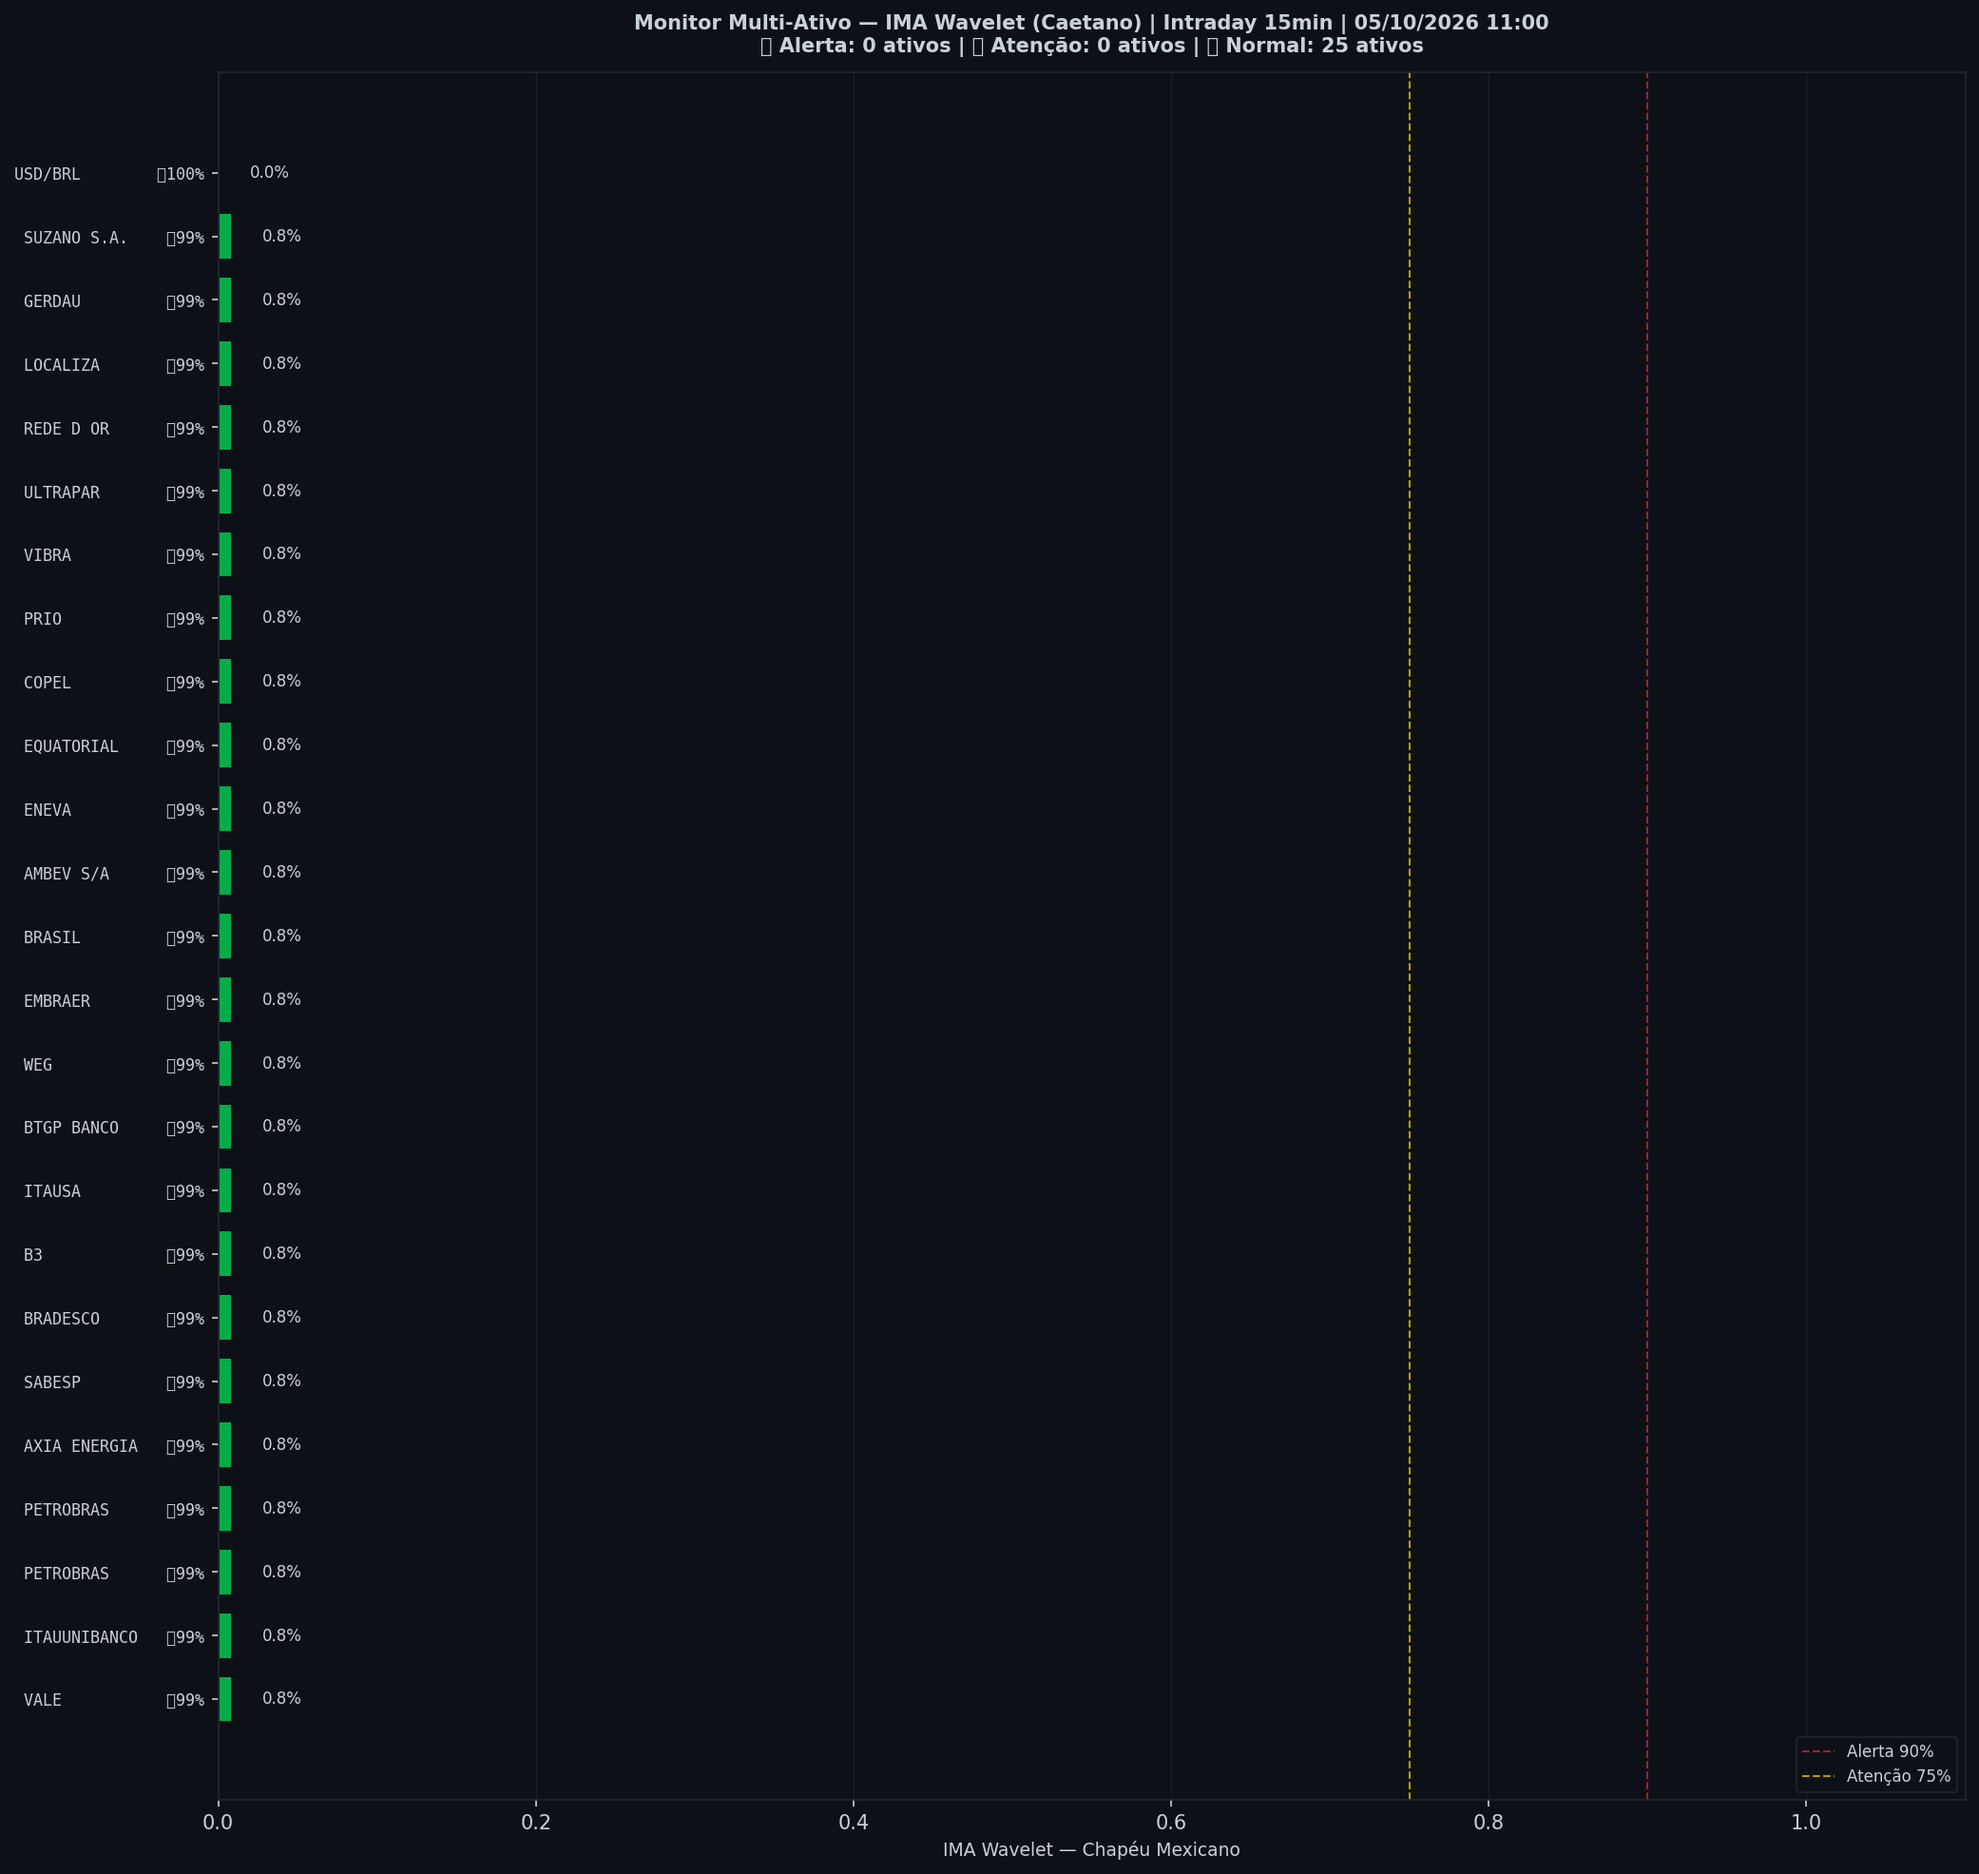
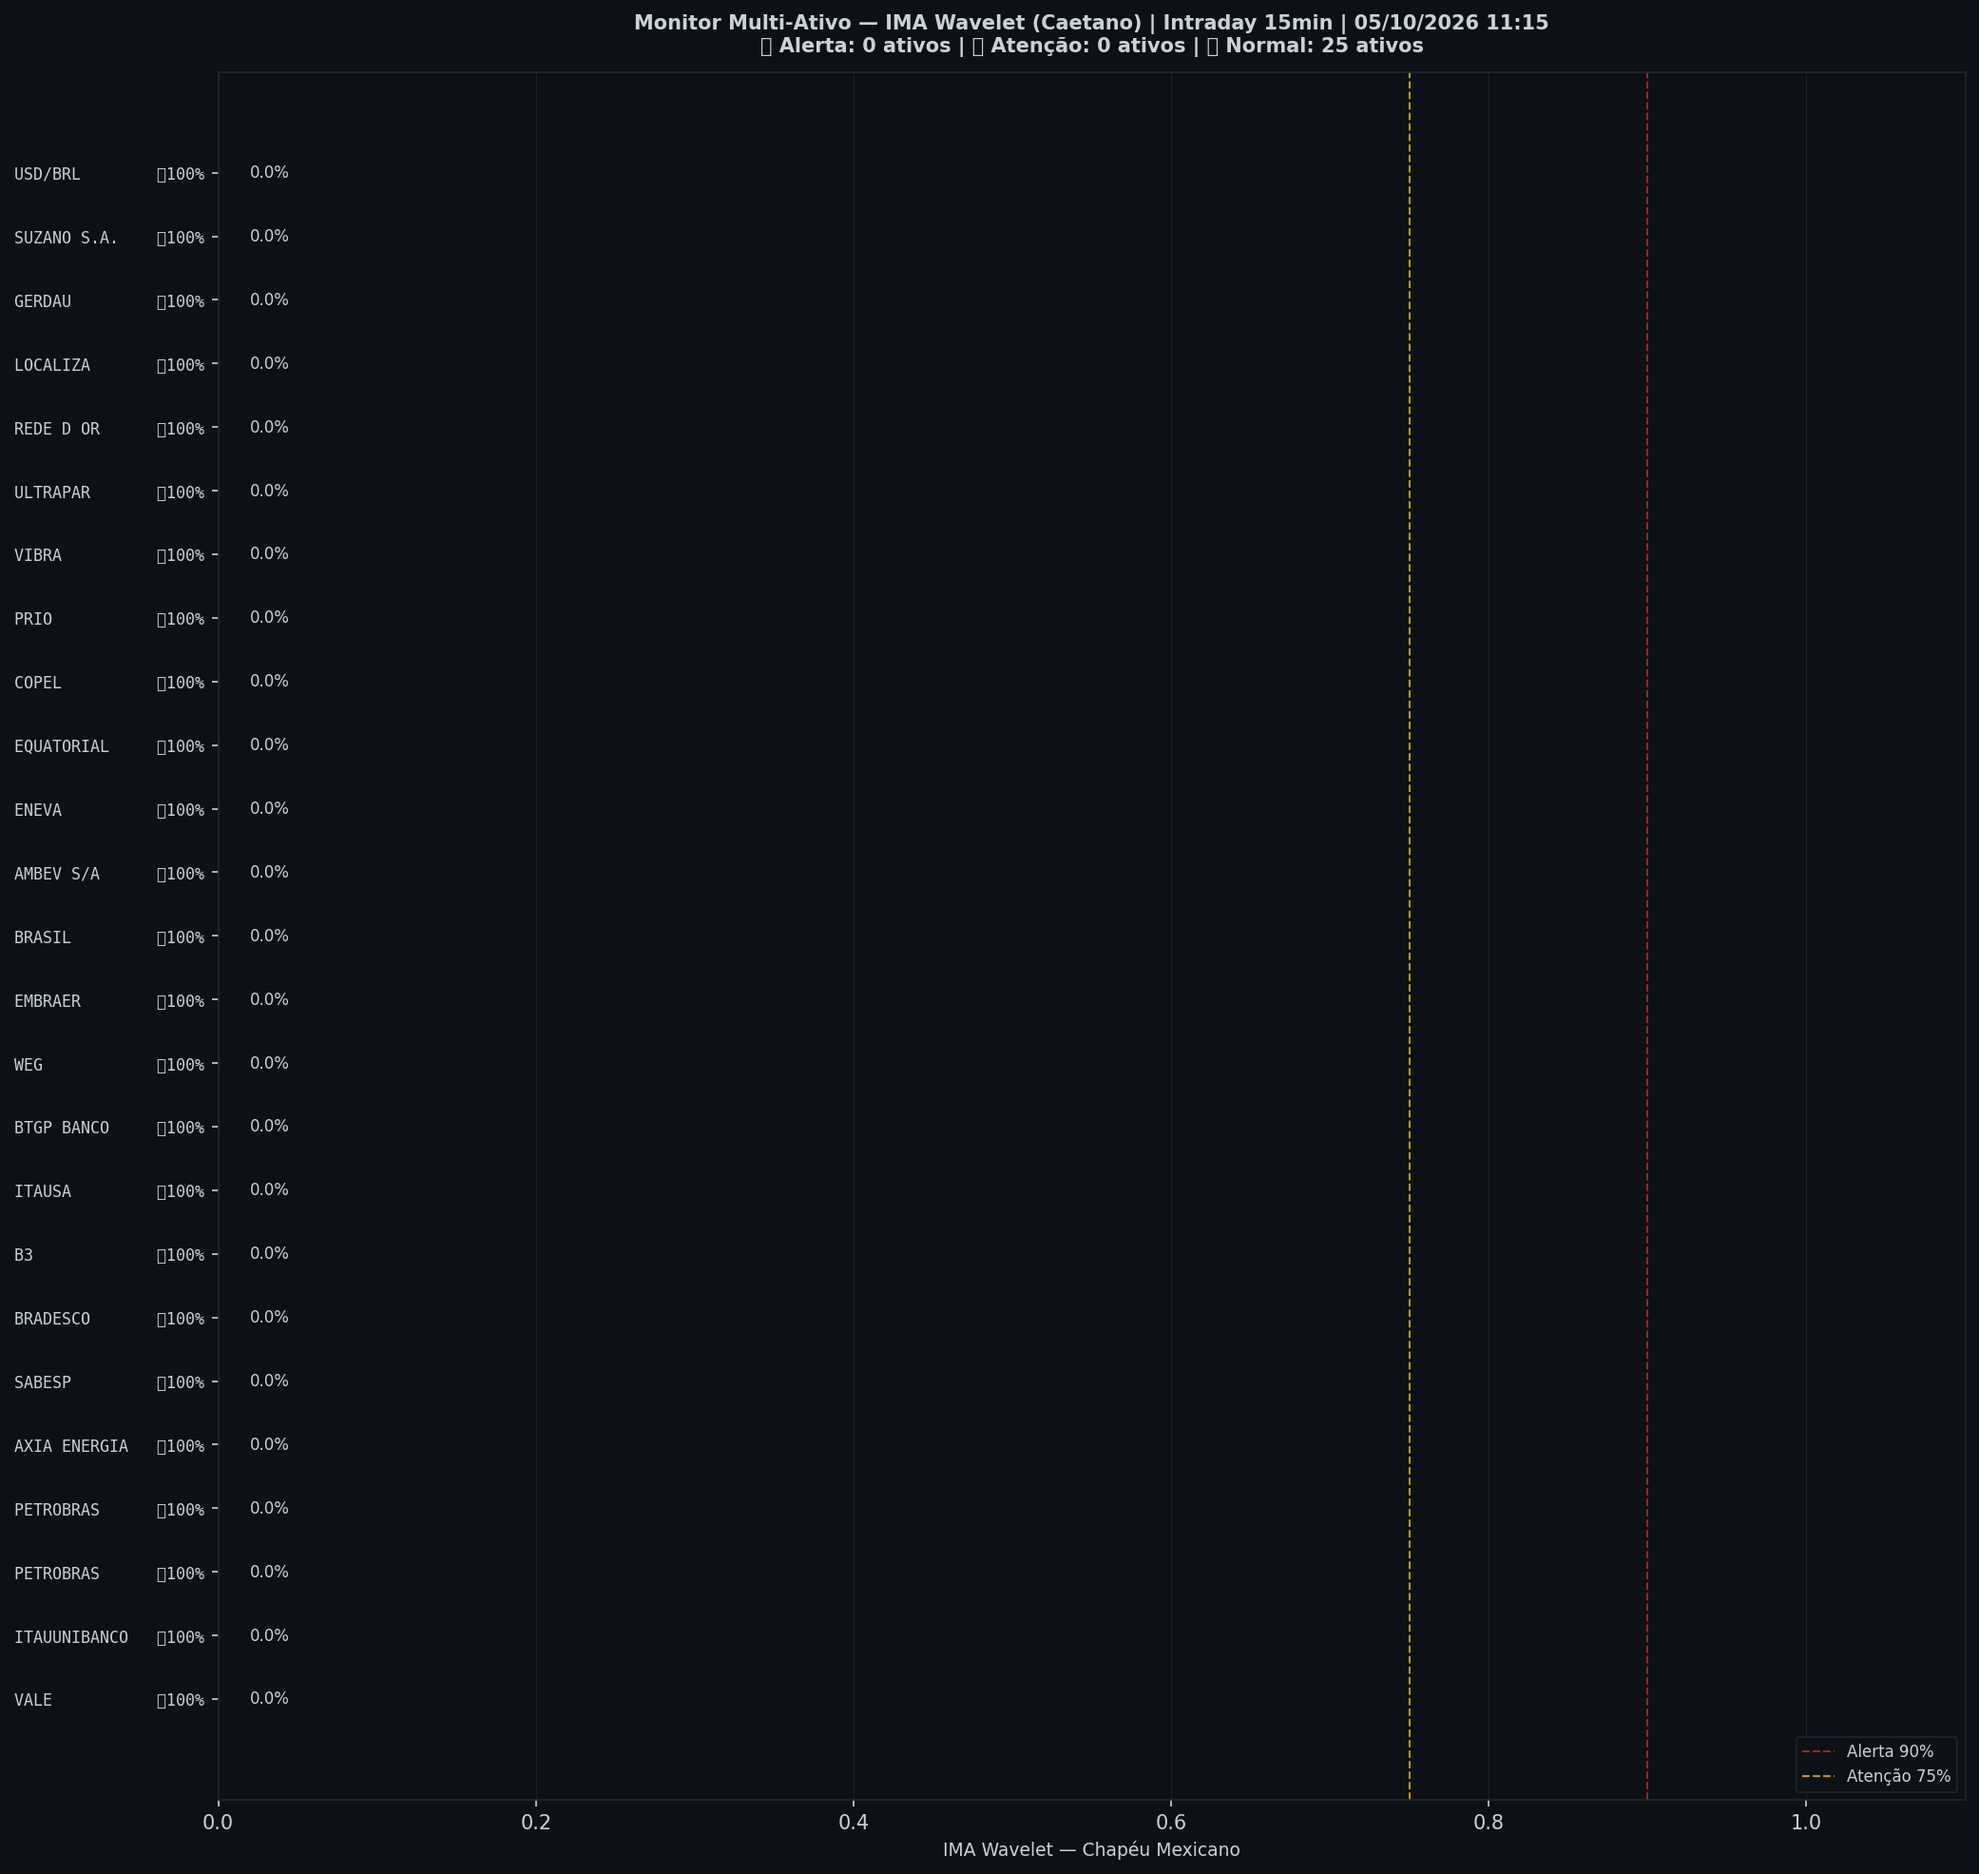
🤖 Auto: Sinal 05/10/2026 11:15

diff --git a/content/intraday/2026-10-05.md b/content/intraday/2026-10-05.md
@@ -1,5 +1,5 @@
 ---
-title: "🔴 Intraday 05/10/2026 10:15 BRT — VERMELHO"
+title: "🔴 Intraday 05/10/2026 10:30 BRT — VERMELHO"
 date: 2026-10-05
 tags: [intraday]
 ---
@@ -14,7 +14,7 @@ tags: [intraday]
 | 🔴 ζ Crash — severidade da queda em curso | **98%** |
 | 🔵 ζ Entrada — estrutura de fundo | 2% |
 | 🫧 LPPL DS-Confidence | 0% |
-| 📊 Ibovespa | 206.404 pts |
+| 📊 Ibovespa | 208.768 pts |
 
 ![Gráfico do sinal](../graficos/sinal_intraday.png)
 
@@ -22,6 +22,7 @@ tags: [intraday]
 
 | Data | Zona | Risco | IMA Crash | Entrada | LPPL |
 |---|---|---|---|---|---|
+| 2026-10-05 10:30 | 🔴 VERMELHO | **98%** | 98% | 2% | 0% |
 | 2026-10-05 10:15 | 🔴 VERMELHO | **98%** | 98% | 2% | 0% |
 | 2026-10-05 10:00 | 🔴 VERMELHO | **98%** | 98% | 2% | 0% |
 | 2026-10-02 16:45 | 🔴 VERMELHO | **93%** | 93% | 0% | 0% |
@@ -51,7 +52,6 @@ tags: [intraday]
 | 2026-10-02 10:45 | 🟢 VERDE | **36%** | 36% | 1% | 0% |
 | 2026-10-02 10:30 | 🟢 VERDE | **37%** | 37% | 1% | 0% |
 | 2026-10-02 10:15 | 🟢 VERDE | **34%** | 34% | 2% | 0% |
-| 2026-10-02 10:00 | 🟢 VERDE | **30%** | 30% | 2% | 0% |
 
 ## Monitor Multi-Ativo
 
@@ -59,35 +59,35 @@ tags: [intraday]
 
 | Zona | Ativo | Setor | IMA Crash | IMA Entrada |
 |---|---|---|---|---|
-| 🟢 | **VALE** | Mineração | 0.8% | 99.2% |
-| 🟢 | **ITAUUNIBANCO** | Financeiro | 0.8% | 99.2% |
-| 🟢 | **PETROBRAS** | Petróleo | 0.8% | 99.2% |
-| 🟢 | **PETROBRAS** | Petróleo | 0.8% | 99.2% |
-| 🟢 | **AXIA ENERGIA** | Energia | 0.8% | 99.2% |
-| 🟢 | **SABESP** | Saneamento | 0.8% | 99.2% |
-| 🟢 | **BRADESCO** | Financeiro | 0.8% | 99.2% |
-| 🟢 | **B3** | Financeiro | 0.8% | 99.2% |
-| 🟢 | **ITAUSA** | Financeiro | 0.8% | 99.2% |
-| 🟢 | **BTGP BANCO** | Financeiro | 0.8% | 99.2% |
-| 🟢 | **WEG** | Industrial | 0.8% | 99.2% |
-| 🟢 | **EMBRAER** | Outros | 0.8% | 99.2% |
-| 🟢 | **BRASIL** | Financeiro | 0.8% | 99.2% |
-| 🟢 | **AMBEV S/A** | Consumo | 0.8% | 99.2% |
-| 🟢 | **ENEVA** | Energia | 0.8% | 99.2% |
-| 🟢 | **EQUATORIAL** | Energia | 0.8% | 99.2% |
-| 🟢 | **COPEL** | Energia | 0.8% | 99.2% |
-| 🟢 | **PRIO** | Petróleo | 0.8% | 99.2% |
-| 🟢 | **VIBRA** | Energia | 0.8% | 99.2% |
-| 🟢 | **ULTRAPAR** | Outros | 0.8% | 99.2% |
-| 🟢 | **REDE D OR** | Saúde | 0.8% | 99.2% |
-| 🟢 | **LOCALIZA** | Aluguel | 0.8% | 99.2% |
-| 🟢 | **GERDAU** | Siderurgia | 0.8% | 99.2% |
-| 🟢 | **SUZANO S.A.** | Papel/Celulose | 0.8% | 99.2% |
+| 🟢 | **VALE** | Mineração | 0.0% | 100.0% |
+| 🟢 | **ITAUUNIBANCO** | Financeiro | 0.0% | 100.0% |
+| 🟢 | **PETROBRAS** | Petróleo | 0.0% | 100.0% |
+| 🟢 | **PETROBRAS** | Petróleo | 0.0% | 100.0% |
+| 🟢 | **AXIA ENERGIA** | Energia | 0.0% | 100.0% |
+| 🟢 | **SABESP** | Saneamento | 0.0% | 100.0% |
+| 🟢 | **BRADESCO** | Financeiro | 0.0% | 100.0% |
+| 🟢 | **B3** | Financeiro | 0.0% | 100.0% |
+| 🟢 | **ITAUSA** | Financeiro | 0.0% | 100.0% |
+| 🟢 | **BTGP BANCO** | Financeiro | 0.0% | 100.0% |
+| 🟢 | **WEG** | Industrial | 0.0% | 100.0% |
+| 🟢 | **EMBRAER** | Outros | 0.0% | 100.0% |
+| 🟢 | **BRASIL** | Financeiro | 0.0% | 100.0% |
+| 🟢 | **AMBEV S/A** | Consumo | 0.0% | 100.0% |
+| 🟢 | **ENEVA** | Energia | 0.0% | 100.0% |
+| 🟢 | **EQUATORIAL** | Energia | 0.0% | 100.0% |
+| 🟢 | **COPEL** | Energia | 0.0% | 100.0% |
+| 🟢 | **PRIO** | Petróleo | 0.0% | 100.0% |
+| 🟢 | **VIBRA** | Energia | 0.0% | 100.0% |
+| 🟢 | **ULTRAPAR** | Outros | 0.0% | 100.0% |
+| 🟢 | **REDE D OR** | Saúde | 0.0% | 100.0% |
+| 🟢 | **LOCALIZA** | Aluguel | 0.0% | 100.0% |
+| 🟢 | **GERDAU** | Siderurgia | 0.0% | 100.0% |
+| 🟢 | **SUZANO S.A.** | Papel/Celulose | 0.0% | 100.0% |
 | 🟢 | **USD/BRL** | Câmbio | 0.0% | 100.0% |
 
 ![Monitor multi-ativo](../graficos/multi_intraday.png)
 
-*Página atualizada em 05/10/2026 11:00 BRT (leitura da barra de 2026-10-05 10:15 BRT).*
+*Página atualizada em 05/10/2026 11:15 BRT (leitura da barra de 2026-10-05 10:30 BRT).*
 
 > [!info]- Como interpretar (clique para expandir)
 > - **ζ Crash**: fração dos coeficientes wavelet acima do corte (Caetano & Yoneyama 2009). Escala absoluta: ζ=0,90 = 90% dos coeficientes anômalos — historicamente, quedas com ζ≥0,90 foram mais fundas e mais longas. **Mede a severidade do movimento em curso, não prevê o início da queda.**

diff --git a/content/index.md b/content/index.md
@@ -8,7 +8,7 @@ tags: [home]
 
 Monitoramento diário e intraday do Ibovespa — **IMA Wavelet** (Prof. Marco Antonio Leonel Caetano, ITA/INSPER) + **LPPL DS-Confidence** (Prof. Didier Sornette, ETH-Zurich).
 
-*Última atualização: 05/10/2026 11:00 BRT · ^BVSP · Intraday 15min · v4*
+*Última atualização: 05/10/2026 11:15 BRT · ^BVSP · Intraday 15min · v4*
 
 > [!danger] 🔴 **VERMELHO** — Risco 98% · ＝ +0 p.p. vs leitura anterior
 > `████████████████████`
@@ -20,7 +20,7 @@ Monitoramento diário e intraday do Ibovespa — **IMA Wavelet** (Prof. Marco An
 | 🔴 ζ Crash — severidade da queda em curso | **98%** |
 | 🔵 ζ Entrada — estrutura de fundo | 2% |
 | 🫧 LPPL DS-Confidence | 0% |
-| 📊 Ibovespa | 206.404 pts |
+| 📊 Ibovespa | 208.768 pts |
 
 **Multi-ativo:** 0% em tensão (0🔴 0🟡 de 25 ativos)
 

diff --git a/content/historico.md b/content/historico.md
@@ -7,6 +7,7 @@ tags: [historico]
 
 | Data | Modo | Zona | Risco | IMA | LPPL |
 |---|---|---|---|---|---|
+| 2026-10-05 10:30 | intraday | 🔴 VERMELHO | 98% | 98% | 0% |
 | 2026-10-05 10:15 | intraday | 🔴 VERMELHO | 98% | 98% | 0% |
 | 2026-10-05 10:00 | intraday | 🔴 VERMELHO | 98% | 98% | 0% |
 | 2026-10-01 | diario | 🟢 VERDE | 1% | 2% | 0% |
